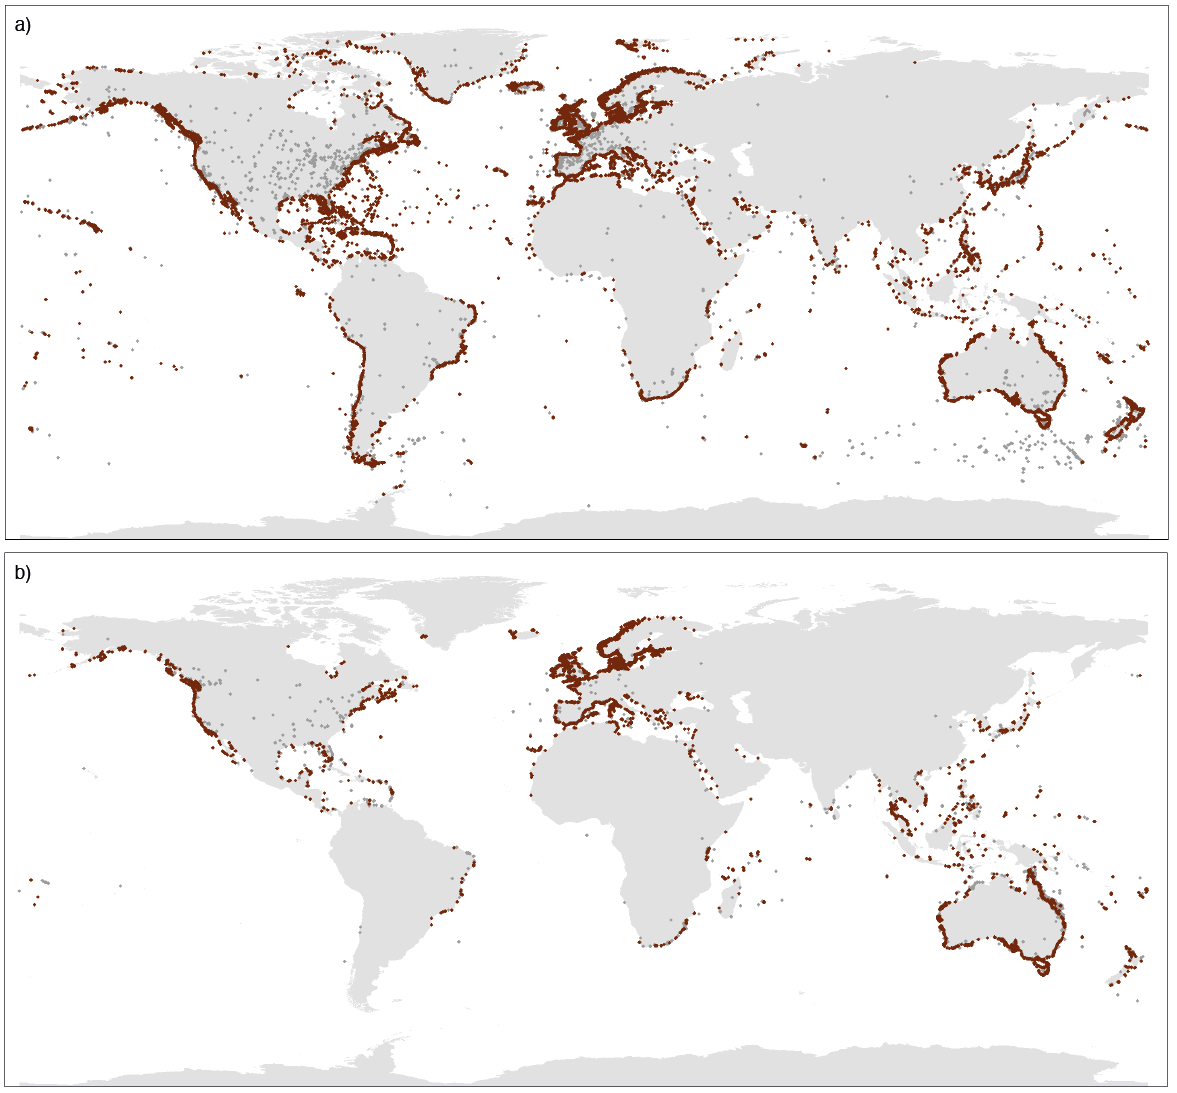
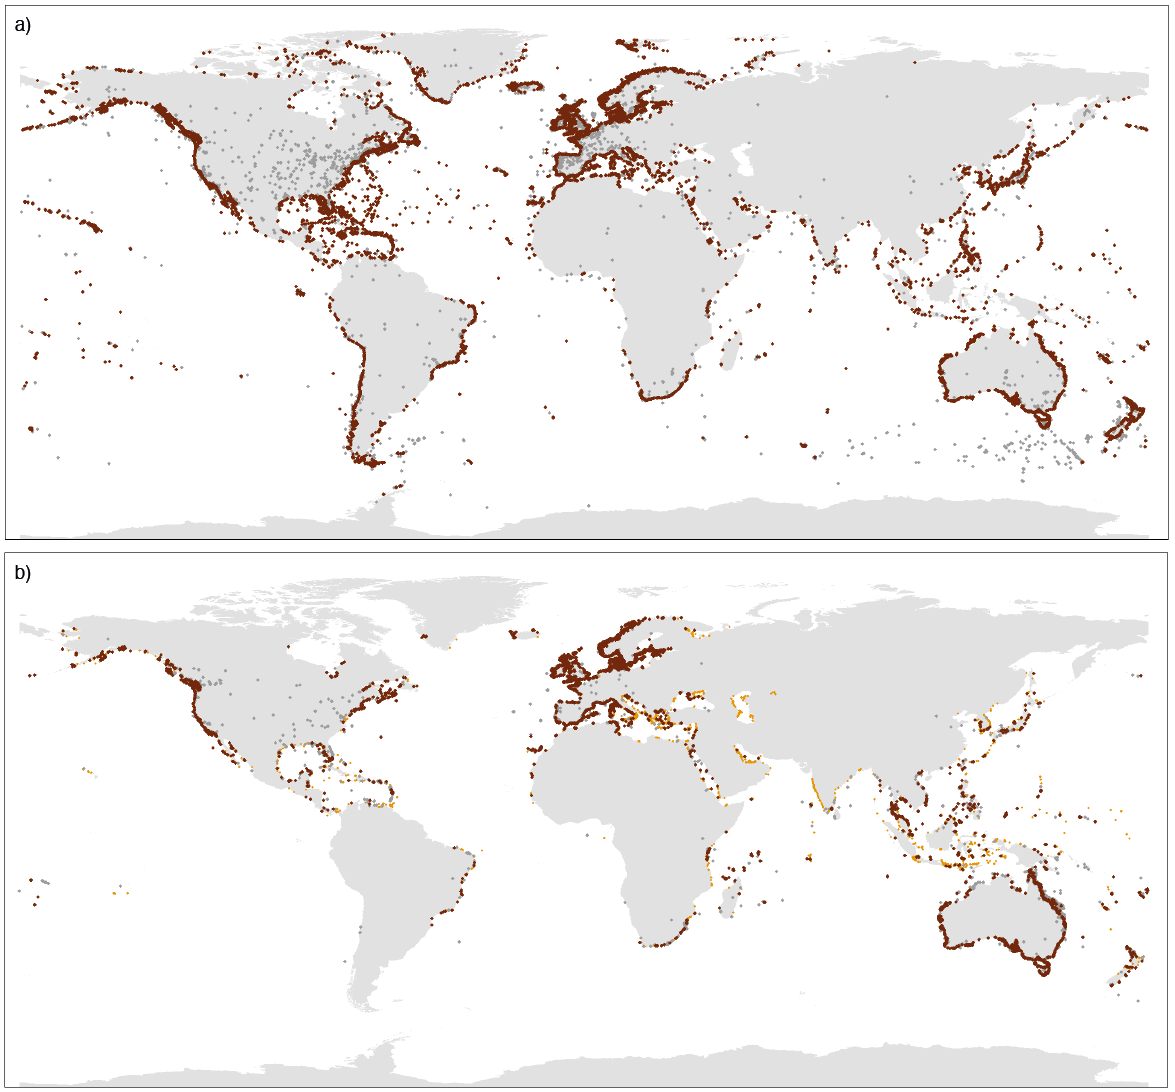
Up.

diff --git a/ReadMe.md b/ReadMe.md
@@ -13,7 +13,7 @@ We document the procedure and provide a ready to use dataset, alongside with a s
 
 ![alt text](https://github.com/jorgeassis/marineforestsDB/raw/master/Data/mainFigure.png "Main Figure")
 
-Figure. Records of marine forest species (a) through time, (b) per taxonomic group (brown algae: orders Fucales, Laminariales and Tilopteridales; seagrasses: families Cymodoceaceae, Hydrocharitaceae, Posidoniaceae and Zosteraceae) and (c) original data source.
+Figure. Records of marine forest species (a) through time, (b) per taxonomic group (brown algae: orders Fucales, Laminariales and Tilopteridales; seagrasses: families Cymodoceaceae, Hydrocharitaceae, Posidoniaceae and Zosteraceae) and (c) original data source. Orange circles depicts occurrence records from the Global distribution of seagrasses62 dataset (version 6.0), available at http://data.unep-wcmc.org/datasets/7 with copyright licensed by UNEP and managed by UNEP-WCMC.
 
 <br>
 
